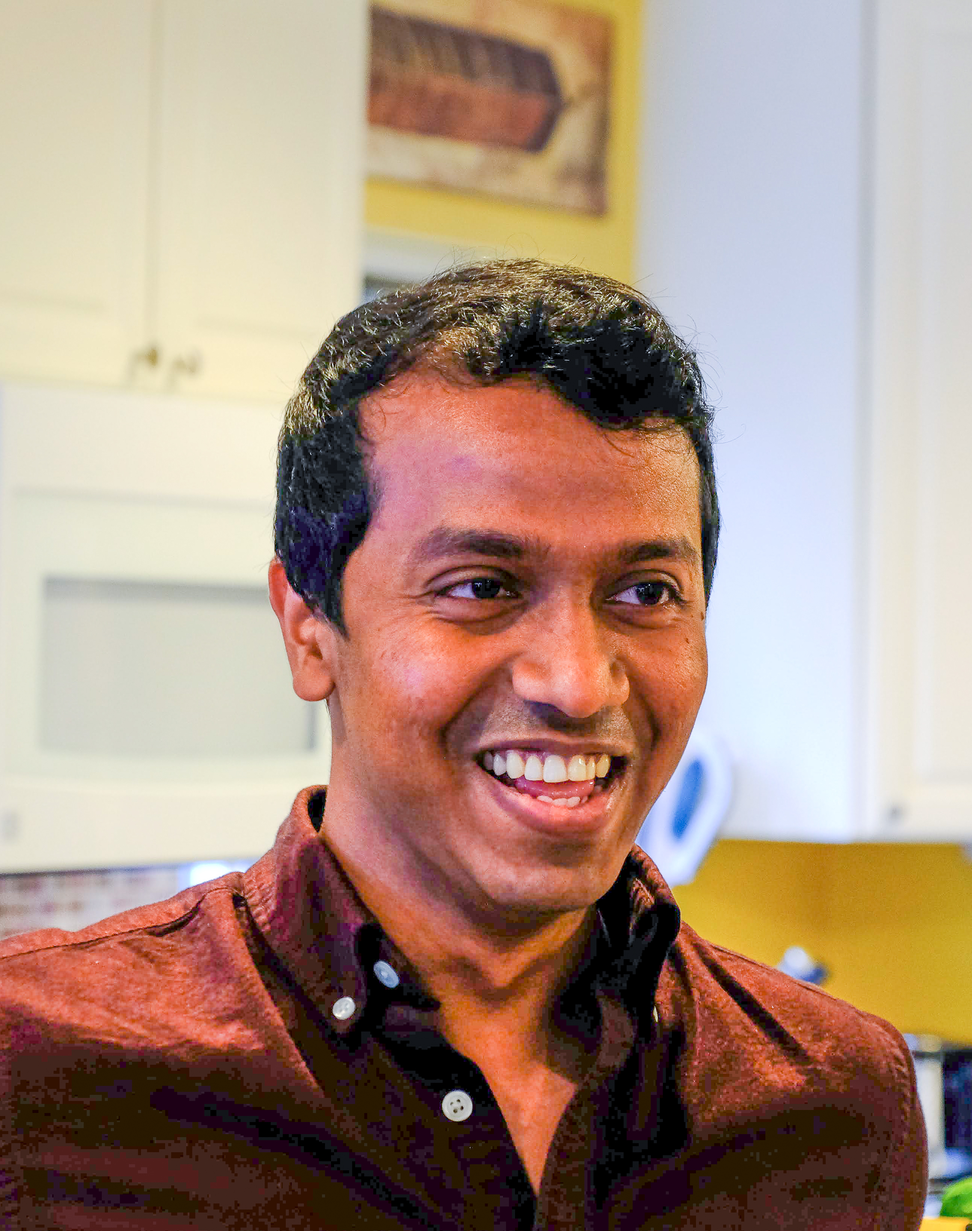
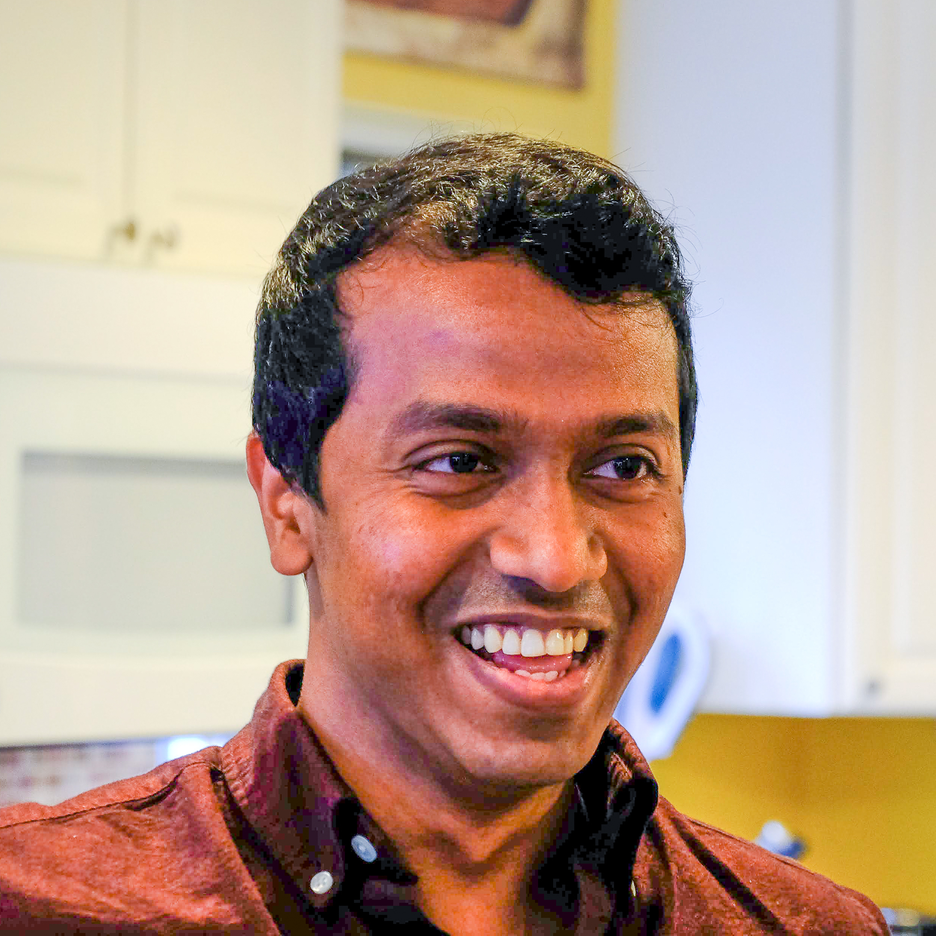
update

diff --git a/index.md b/index.md
@@ -67,9 +67,9 @@ TBD
   <tbody>
     <tr>
       <td width="25%"><a href="http://www.cs.tau.ac.il/~joberant/"><img src="assets/images/berant.png" width="120px" align="bottom" style="border-radius: 50%"></a></td>
-      <td width="25%"><a href="http://www.phontron.com/"><img src="assets/images/neubig.png" width="120px" align="bottom" style="border-radius: 50%"></a></td>
+      <td width="25%"><a href="http://www.phontron.com/"><img src="assets/images/neubig.jpg" width="120px" align="bottom" style="border-radius: 50%"></a></td>
       <td width="25%"><a href="https://researcher.watson.ibm.com/researcher/view.php?person=us-yunyaoli"><img src="assets/images/yunyaoli.jpg" width="120px" align="bottom" style="border-radius: 50%"></a></td>
-      <td width="25%"><a href="http://www.stat.ucla.edu/~caiming/"><img src="assets/images/caimingxiong.jpeg" width="120px" align="bottom" style="border-radius: 50%"></a></td>
+      <td width="25%"><a href="http://www.stat.ucla.edu/~caiming/"><img src="assets/images/xiong.jpg" width="120px" align="bottom" style="border-radius: 50%"></a></td>
     </tr>
     <tr>
       <td><a href="http://www.cs.tau.ac.il/~joberant/">Jonathan Berant (Tel Aviv University/AI2)</a></td>
@@ -78,7 +78,7 @@ TBD
       <td><a href="http://www.stat.ucla.edu/~caiming/"></a>Caiming Xiong (Salesforce Research)</td>
     </tr>
     <tr>
-      <td width="25%"><a href="https://www.cs.yale.edu/homes/radev/"><img src="assets/images/radev.jpg" width="120px" align="bottom" style="border-radius: 50%"></a></td>
+      <td width="25%"><a href="https://www.cs.yale.edu/homes/radev/"><img src="assets/images/radev.jpeg" width="120px" align="bottom" style="border-radius: 50%"></a></td>
       <td width="25%"><a href="https://www.cs.washington.edu/people/faculty/lsz"><img src="assets/images/zettlemoyer.jpg" width="120px" align="bottom" style="border-radius: 50%"></a></td>
     </tr>
     <tr>
